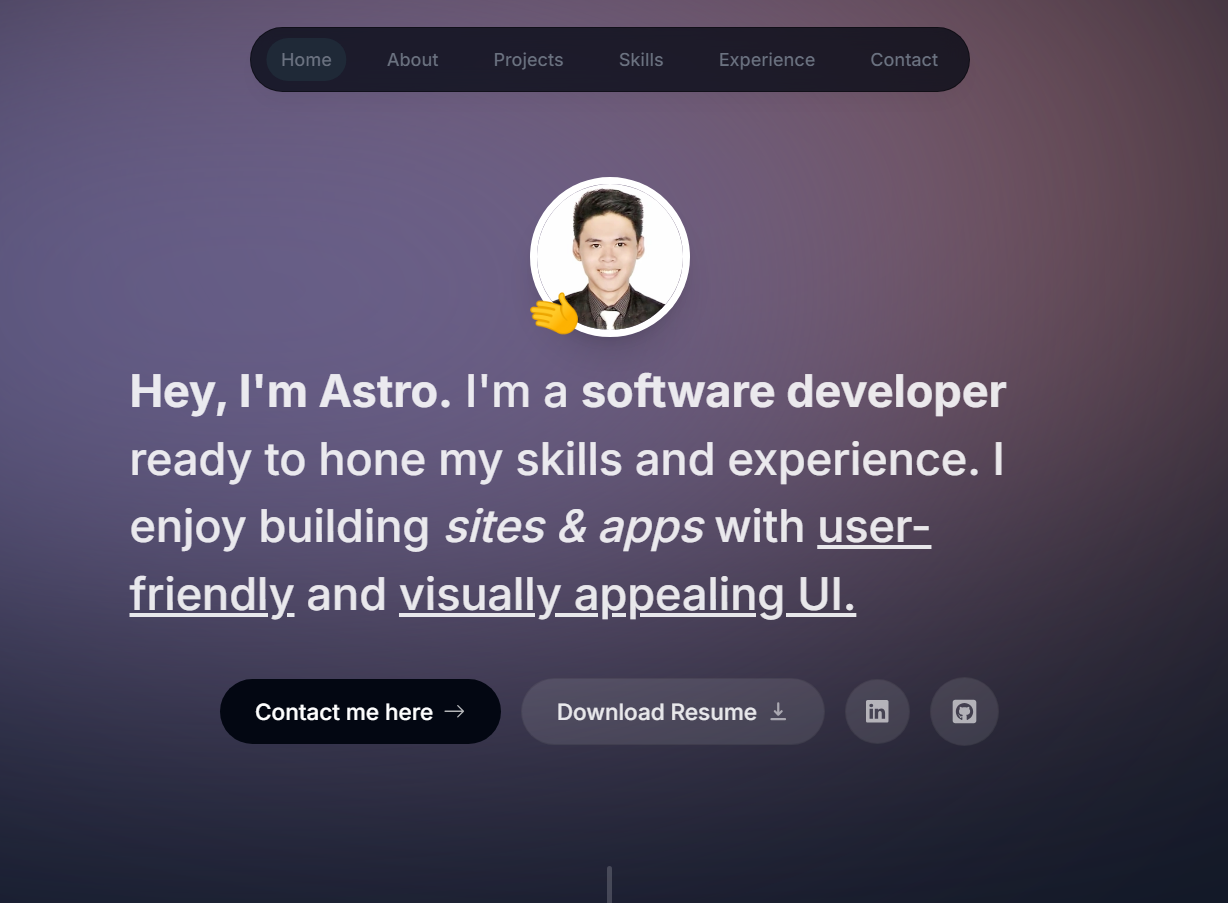
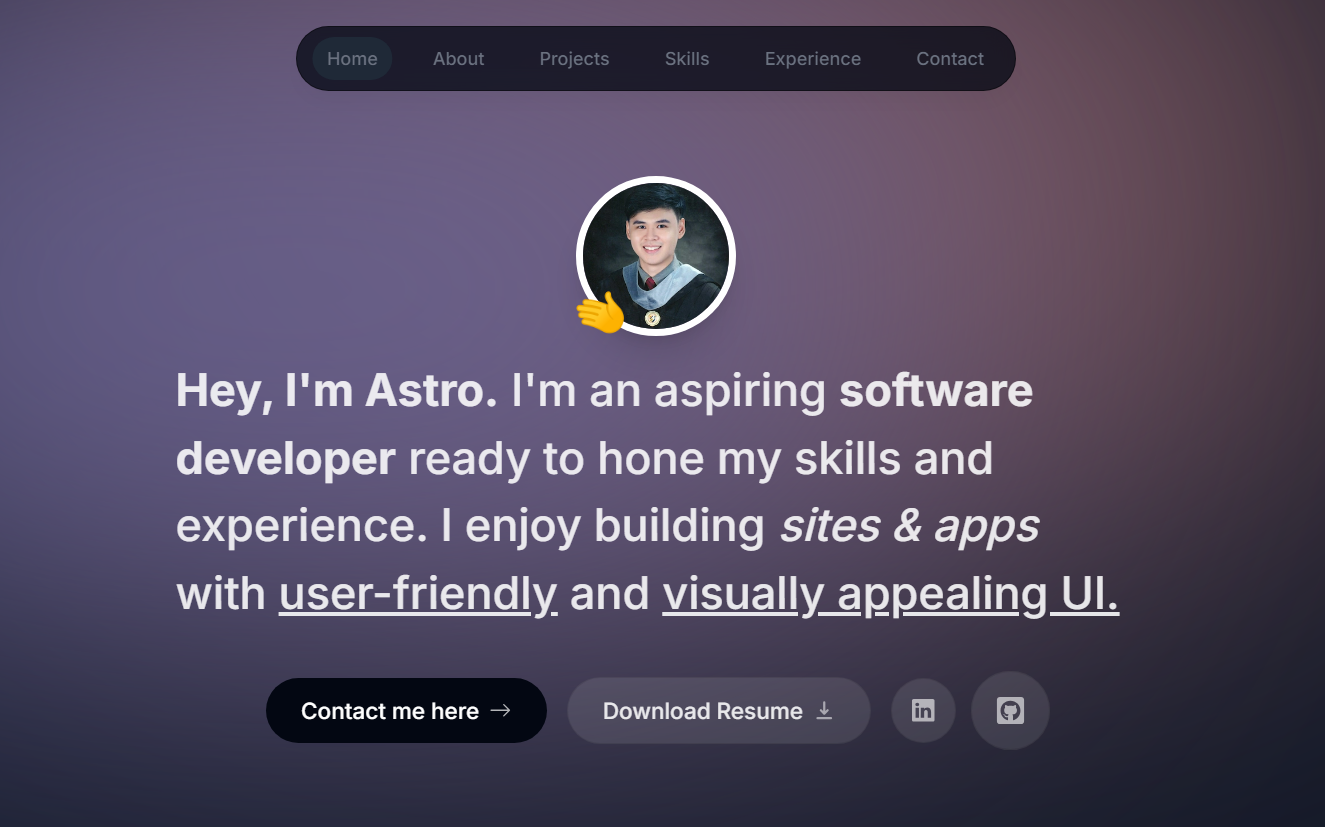
Update image

Changed region(s): [[0.0928, 0.1814, 0.8664, 0.9069], [0.1857, 0.0302, 0.8046, 0.1209], [0.4951, 0.9674, 0.5261, 1.0]]

diff --git a/components/intro.tsx b/components/intro.tsx
@@ -30,7 +30,7 @@ export default function Intro() {
             }}
           >
             <Image
-              src="/Astro.png"
+              src="/Astro.jpg"
               alt="Astro portrait"
               width="192"
               height="192"
@@ -102,7 +102,7 @@ export default function Intro() {
           <HiDownload className="opacity-60 group-hover:translate-y-1 transition" />
         </a>
         <a
-          href="https://www.linkedin.com/in/shepherdastro/"
+          href="https://www.linkedin.com/in/shepherd-astro-flexer/"
           target="_blank"
           className="dark:bg-white/10 dark:text-white/60 dark:hover:text-white bg-white text-gray-700 p-4 items-center gap-2 rounded-full flex focus:scale-[1.15] hover:scale-[1.15] hover:text-gray-950 active:scale-105 transition borderBlack"
         >
